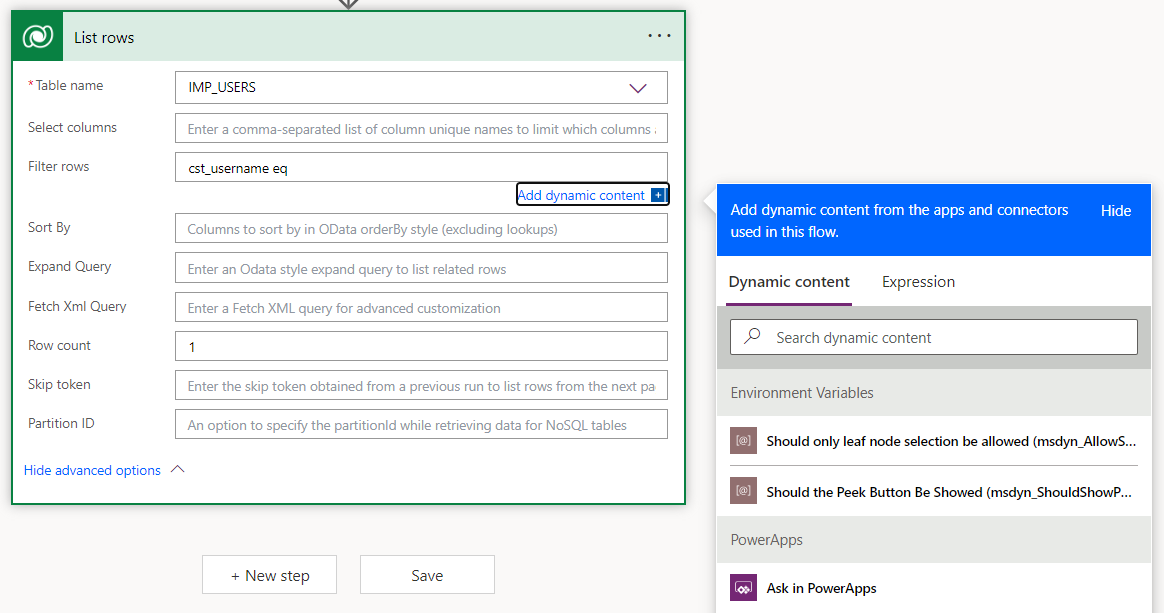
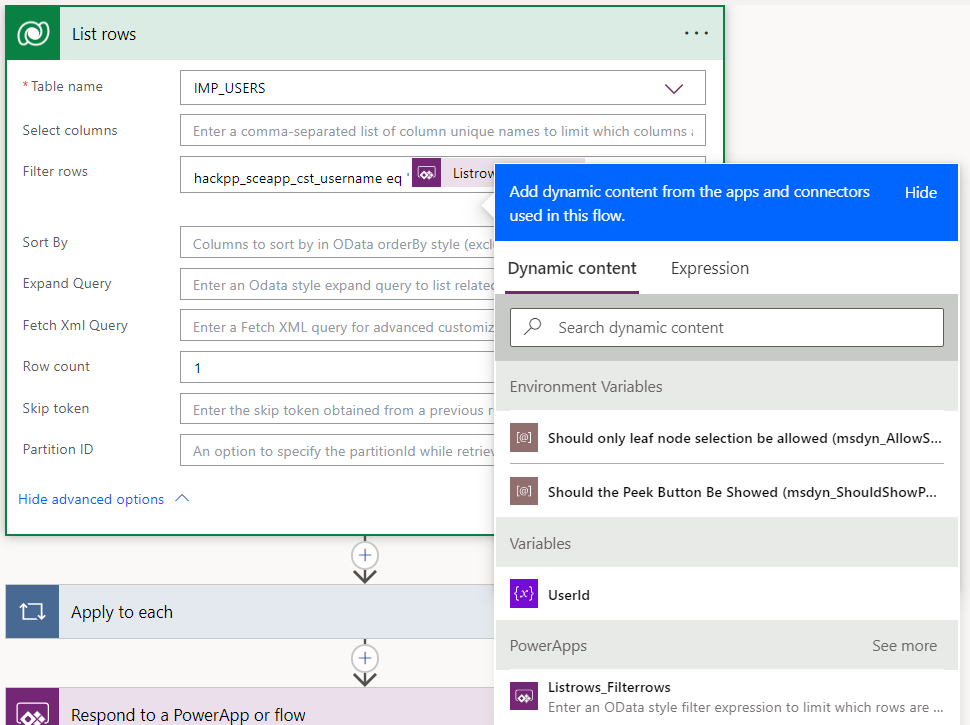
bugfix

diff --git a/01_PrimerPPAppScenario.md b/01_PrimerPPAppScenario.md
@@ -9,14 +9,14 @@ The most important tool from the hackathon perspective is the web portal. It all
 
 <br><img src="./images/intro_power_platform.png" /><br>
 
-Cooments regarding the picture:
+Comments regarding the picture:
 * The red boxes in the picture mark the environment and the user.
 * On the left hand side you have the main navigation that allows you to reach Dataverse, Power Apps and solutions.
 * Make sure you are always LOGGED IN with the user we provide in the hackathon and not with your Capgemini EMail account
 
 ## Dataverse
 
-Dataverse is the built-in persistence mechanism for Power Platform. It is designed for transactional data. For analytic worloads Microsoft recommends switching to Azure. The core service is a SQL server but as you can see in the picture Dataverse is a implemented behind the sceen by a bunch of services.
+Dataverse is the built-in persistence mechanism for Power Platform. It is designed for transactional data. For analytic worloads Microsoft recommends switching to Azure. The core service is a SQL server but as you can see in the picture Dataverse is a implemented behind the scene by a bunch of services.
 
 <br><img src="./images/intro_dataverse.png" /><br>
 
@@ -37,14 +37,14 @@ Model driven apps are a special application type within power apps. Others are a
 1. Based on dataverse tables
 2. Custom Pages (Our focus)
 3. Dashboards
-These three options are also reflected by the main choice you have to make when adding a page:
+These three options are also reflected by the UI when you add a page:
 
 <br><img src="./images/intro_apps_page_types.png" /><br>
 
 Custom pages can give you a citizen developer like experience. Compared to the dataverse table option they are closer to architecture principles for professional developers since the UI is not directly bound to the tables. Only power pages provide licenses that are for a bunch of users.
 
-A major design decision is also whether you use multiple screens within the same custom page or multiple custom pages. According to our experience from that hackathon custom pages come with a serious limitation regarding communication with other pages:
-* Navigate() command only allows to pass a record to the called page
+The next major design decision within custom pages is multiple screens within the same custom page or multiple custom pages. According to our experience from that hackathon custom pages come with a serious limitation regarding communication with other pages:
+* The `Navigate()` command only allows to pass a record to the called page
 
   This is for instance a problem if you want to pass additional infos beyond the record. Reading record information such as `id` on the target page is also done with `Param`.
 
@@ -59,7 +59,7 @@ A major design decision is also whether you use multiple screens within the same
 Using multiple screens instead has the following advantages:
 * More leightweight solution than multiple pages
 * Arbitrary parameters possible with `Navigate()`
-* Parameters can be passed as Context that is scoped per screen
+* Parameters can be passed as context that is scoped per screen
 
   Scoping means that the values are not visible outside the screen. Compared to global variables this greatly reduces side effects. This context is very close to parameters in function calls that you know from standard programming languages.
 
@@ -72,7 +72,7 @@ The major controls to switch between the levels are:
  
   Select `Apps` in the main navigation on the left hand side. Right-click on the app in question and select `Edit` in the context menu. To get back to the entry portal click the `Back`button in the top left corner.
 
-* App => page
+* App => page in Edit Mode
 
   Hoovering over the page in question should already activate the pen icon. Click on that to edit the page. To get back to the app level click the `Back`button in the top left corner.
   <br><img src="./images/intro_app_edit_pg.png" /><br>
@@ -89,35 +89,37 @@ Power automate propagates a workflow like business logic programming style that 
 
 Comments regarding the picture:
 * Trigger of the flow is manual
-* Arrows represent what comes next so in our case it is a pure seuqnetial execution
+* Arrows represent what comes next so in our case it is a pure sequential execution
 * A box corresponds to a step within the flow performing a certain action
 
 There are various types of flows but the major distinction for us is the following:
 1. Stand alone flow that is defined in Power Automate
 2. Flow that is embedded in a Power App
-We will use the second option since option one requires higher licenses.
+
+   We will use the second option since option one requires higher licenses.
 
 ## Solutions
 
-The standard way to program in a low code platform is rather clicking instead of coding. That is fine for dev/ test environments. But think of production as environment. There clicking together is no option. You rather want to transfer what you clicked together as it is to production. That requires a programmatic way to export something from your dev/ test environment and import it to production.
+The standard way to program in a low code platform is rather clicking instead of coding. That is fine for dev/ test environments. But think of production where clicking together is no option. You rather want to transfer what you clicked together as it to production. That requires a programmatic way to export something from your dev/ test environment and import it to production.
 
-The vehicle is a solution which can transport any artefact from power platform. You can click it together in the portal or by exporting it. Exporting a solution gives you a zip file. The reverse operation reinstates the objects you exported in the designated environment. We will use that mechanism to quickly provision your environment with th fully implemented data model and the partially implemented application.
+The vehicle is a solution which can transport any artefact from power platform. 
+A solution is a container on its own and you add the existing PowerPlatform artefacts to it after creation. Exporting a solution gives you a zip file. The reverse operation reinstates the objects you exported in the designated environment. We will use that mechanism to quickly provision your environment with the fully implemented data model and the partially implemented application.
 
 # 3. Application Scenario
 
 ## Business Problem
 
-Our application is centeredaround CO2 consumption data that is uploaded by the user. Once the upload is final it must be approved. First then it appears in the final destination table that holds the accumulated CO2 consumption per year. Importing consumption data consists of two parts:
+Our application is centered around CO2 consumption data that is uploaded by the user. Once the upload is final it must be approved. First then it appears in the final destination table that holds the accumulated CO2 consumption per year. Importing consumption data consists of two parts:
 * Import Header
 
-  The header summarizes an import. It contains important general importing and approving details such as user and timestamps. Business rules enforce consistency e.g. an approving user must be stored if the state is approved. One tracks the current state of the import which has the following state model:
+  The header summarizes an import. It contains important general importing and approving details such as user and timestamps. The state of the import controls the overall business process. The following values are possible:
   
   * Pending - Import has been done but the figures are not ready for approval
   * Finalized - Figures are ready for approval
   * Approved - Figures habe been approved and can be processed
   * Processed - Figures have been added to the accumated CO2 consumption by the system.
 
-  Changes of the import state trigger the next step in the business flow. E.g. setting the state to `Finalized` allows to trigger the approval.
+  Changes of the import state trigger the next step in the business flow. E.g. setting the state to `Finalized` allows to trigger the approval. Business rules enforce consistency e.g. an approving user must be stored if the state is approved. 
 
 * Import data
 
@@ -184,7 +186,7 @@ The meaning of the tables are as follows. The names are the ones that are also u
 * Choice IMP_STATES_CHOICE - Eligible import states
 * Choice IMP_CO2_DRIVER_TYPES_CHOICE - Drivers for CO2 emission
 
-The table below gives a short overview of the columns for the custom tables. Choices contain key value pairs. In our hackathon we did not check the default columns for reuse. In a real world scenario you would only the columns you need on top. All relevant columns have the prefx `CST` to quickly identify them. :
+The table below gives a short overview of the columns for the custom tables. Choices contain key value pairs. In our hackathon we only the defazlt feature for attachments. All other required ones we defined manually. In a real world scenario you would only the columns you need on top. All relevant columns have the prefx `CST` to quickly identify them:
 
 |Table name          |Column name           |Purpose                                     |
 |--------------------|----------------------|--------------------------------------------|
@@ -201,6 +203,7 @@ The table below gives a short overview of the columns for the custom tables. Cho
 |IMP_CO2_CONS_RAW_HDR|CST_IMP_DESC          |Additional import description               |
 |IMP_CO2_CONS_RAW_HDR|CST_APPR_TS           |Timestamp of approval                       |
 |IMP_CO2_CONS_RAW_HDR|CST_APPR_USERNAME     |Name of approving user                      |
+|IMP_CO2_CONS_RAW_HDR|Attachment            |Uploaded data                               |
 |IMP_CO2_CONS_RAW    |CST_IMP_ITM_CODE      |Logical primary Key of table                |
 |IMP_CO2_CONS_RAW    |CST_IMP_CODE          |Rfeerence to import header                  |
 |IMP_CO2_CONS_RAW    |CST_CO2_CONS_YEAR_TONS|CO2 consumption caused by the department    |

diff --git a/README.md b/README.md
@@ -2,7 +2,7 @@
 
 ## Focus
 
-This repo contains the documentation for the Power Apps hackathon. The application to complete will be a **model driven app with Custom Pages**. The business scenario of our example app is the import of CO2 consumption figures from a local file. They will have to approved before showing up in a consolidated table. A wizard will guide the importing and approving user to the import/ approval.
+This repo contains the documentation for the Power Apps hackathon. The application to complete will be a **model driven app with Custom Pages**. The business scenario of our example app is the import of CO2 consumption figures from a local file. They will have to approved before showing up in a consolidated table. A wizard will guide the importing user.
 
 The hackathon includes the following technologies:
 * Power Apps: Model driven apps with custom pages
@@ -14,11 +14,11 @@ Out of scope are the following technologies:
 * Creation of underlying dataverse data model (We provide a full implementation that only needs to be imported by you into the environment)
 
 The following things will be provided to you:
-* Power Platform Environment and user to fill the gaps our application
+* Power Platform Environment and user to fill the gaps in our application
 * Fully implemented data model
 * A partially implemented application with gaps for you to fill
 
-[This repo](https://github.com/DevOps-Gilde/Hackathon_PP_ModelDrivenApp_CstPages_Code) contains the assumed code for this documentation.
+[This repo](https://github.com/DevOps-Gilde/Hackathon_PP_ModelDrivenApp_CstPages_Code) contains the code for this documentation. Code includes the starting point for this hackathon and a fully implemented application.
 
 ## Prerequirements
 
@@ -44,11 +44,13 @@ The following tasks will expect you:
    * Configuring controls (EditForm, Button)
    * Defining actions when certain events happen such as a click of a button
 
+   After that task the first step of the wizard won't trigger any changes within the data model.
+
 4. Implement Wizard Step Create/ Update (Part2) [here](/04_ImplementWizardStep1Part2.md)
 
-   In that step the import header will be created without that acts as empty shell for the uploaded import data. Reason for the involving an embedded flow are limitations of the used controls.
+   In that step you add the persistence in the data model. Reason for the involving an embedded flow are limitations of the used controls.
 
 5. **Optional advanced extra task:** Implement approval flow [here](/05_ImplementApprovalFlow.md)
 
-:white_check_mark: We also created a fully implemented applicazion including data model located in the branch [Solution](https://github.com/DevOps-Gilde/Hackathon_PP_ModelDrivenApp_CstPages_Doc/tree/Solution) of your forked repository that covers all tasks. You only have to import it to your environment.
+:white_check_mark: We also created a fully implemented application including data model located in the branch [Solution](https://github.com/DevOps-Gilde/Hackathon_PP_ModelDrivenApp_CstPages_Doc/tree/Solution) of your forked repository that covers all tasks. You only have to import it to your environment.
 If at any Point you need assistance nevertheless do not hesitate to ask. We are here to Help you.

diff --git a/04_ImplementWizardStep1Part2.md b/04_ImplementWizardStep1Part2.md
@@ -44,7 +44,7 @@ Set the fields as shown in the table:
 | Select columns | MetadataId                |
 | Row count      | 1                         |
 
-The expression for `Filter rows` we use for filtering the rows by the importing username that was specified in the form. The expression is `cst_username eq <value from form>`. Technically the value from the form is passed as parameter. We have to tell now Power Platform to generate a parameter for us. The screenshot below shows how that is done by selecting the expression `Ask in PowerApps`:
+The expression for `Filter rows` we use for filtering the rows by the importing username that was specified in the form. The expression is `hackpp_sceapp_cst_username eq '<value from form>'`. Technically the value from the form is passed as parameter. We have to tell now Power Platform to generate a parameter for us. The screenshot below shows how that is done by selecting the expression `Ask in PowerApps`:
 
 <br><img src="./images/flow_new_list_rows_add_para.png" /><br>
 
@@ -58,11 +58,27 @@ As a first value we will set the value for CST_IMP_USERNAMES. Power Platform exp
 
 <br><img src="./images/flow_new_set_imp_user.png" /><br>
 
-Set the fields as shown in the table below. When you selected the value you will notice a change, Dataverse embeds the new `Add new row`task in a for each loop since the previous command might return multiple rows. The screenshot below shows this new situation:
+When you selected the value you will notice a change, Dataverse embeds the new `Add new row` task in a for each loop since the previous command might return multiple rows. The screenshot below shows this new situation:
 
 <br><img src="./images/flow_new_apply_each.png" /><br>
 
-Expand the `Add new row`action and set now the remaining fields as shown below:
+Let's try to understand `Apply tp each` better. It is working as major input on the output from the previous step displayed as ` value x`. To understand it you have to be aware of the JSON structure that is returned by `List rows`. Below you find a sample:
+```
+{
+	"@odata.context": "https://orgc9bd3046.crm6.dynamics.com/api/data/v9.1/$metadata#cr953_workflowmaxes(cr953_jobid,cr953_...)",
+	"@Microsoft.Dynamics.CRM.totalrecordcount": -1,
+	"@Microsoft.Dynamics.CRM.totalrecordcountlimitexceeded": false,
+	"value": [{
+		"@odata.type": "#Microsoft.Dynamics.CRM.cst_users",
+		"@odata.id": "https://domain.crm6.dynamics.com/api/data/v9.1/cst_users(cf5033a4-c9c8-eb11-bacc-00224817f...)",
+		"hackpp_sceapp_imp_userid": "cf5033a4-c9c8-eb11-bacc-00154817f386"
+    ...
+	}]
+}
+```
+The used path `body/value` is another word navigate to the `value` property. As you can see in the JSON it is an array. The loop now cycles over each entry. We need the id which is shown as `IMP_USER x`. The expression `items('Apply_to_each')?['hackpp_sceapp_imp_userid']` behind is easy to understand.
+
+Expand the `Add new row` action again and set now the remaining fields as shown below:
 |Field           |Value                                         |
 |----------------|----------------------------------------------|
 | CST_IMP_TS     | utcNow                                       |
